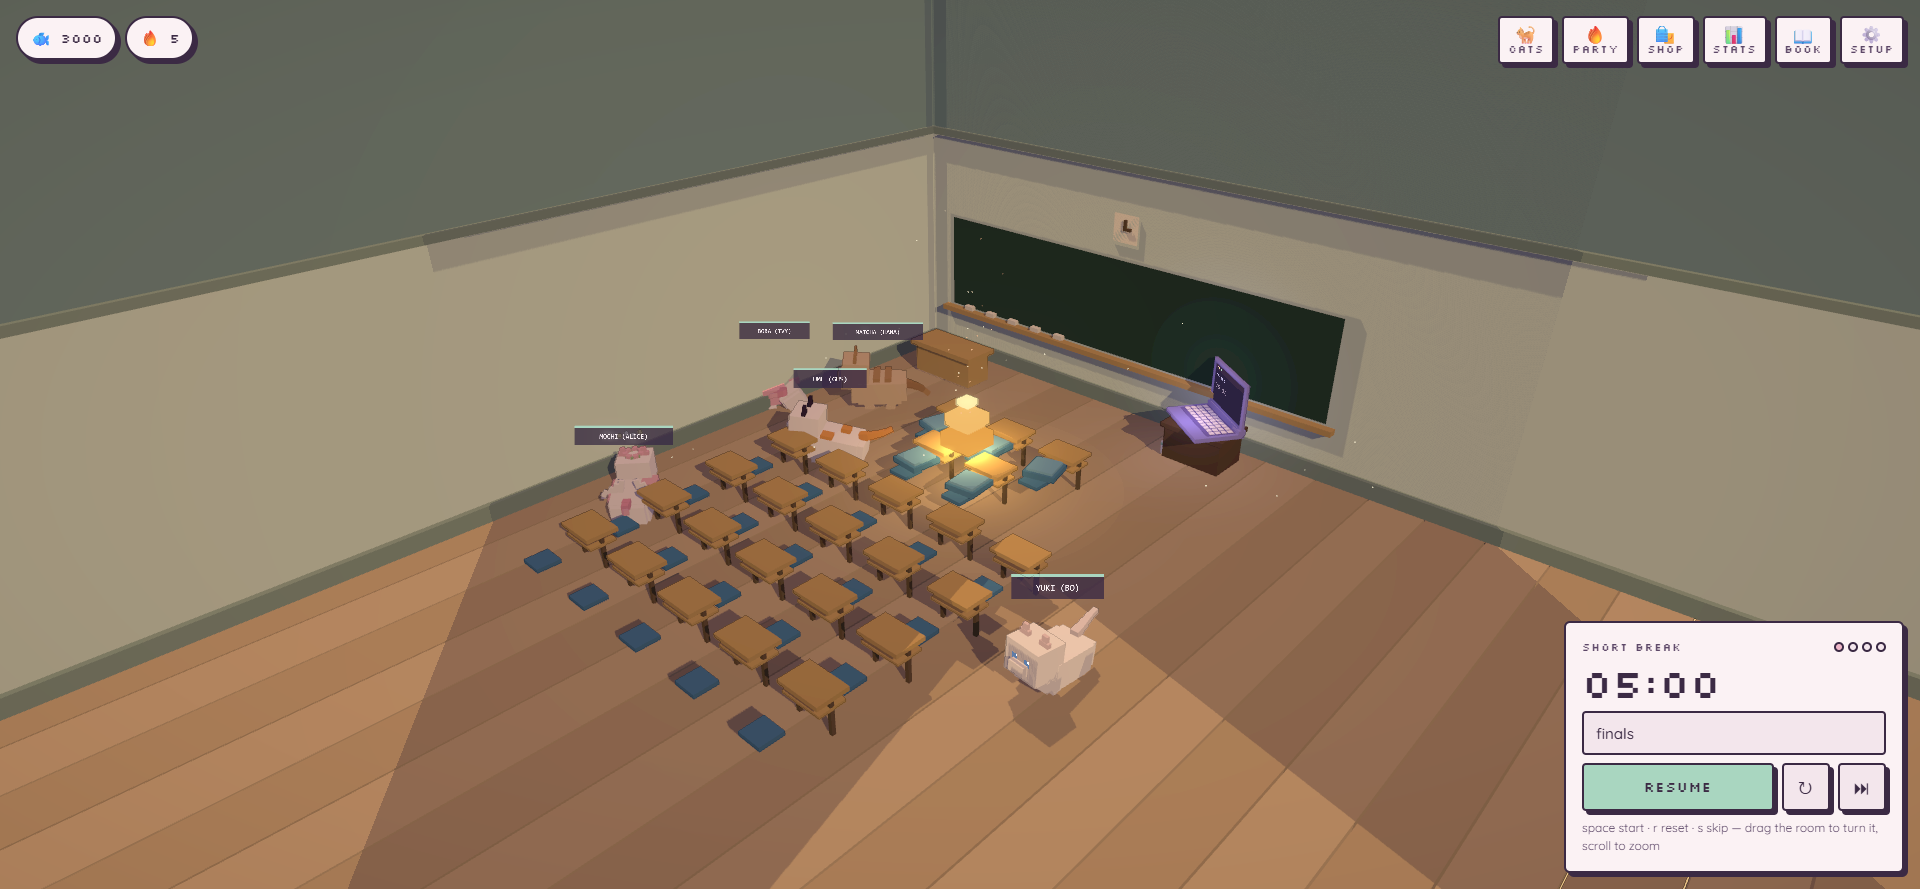
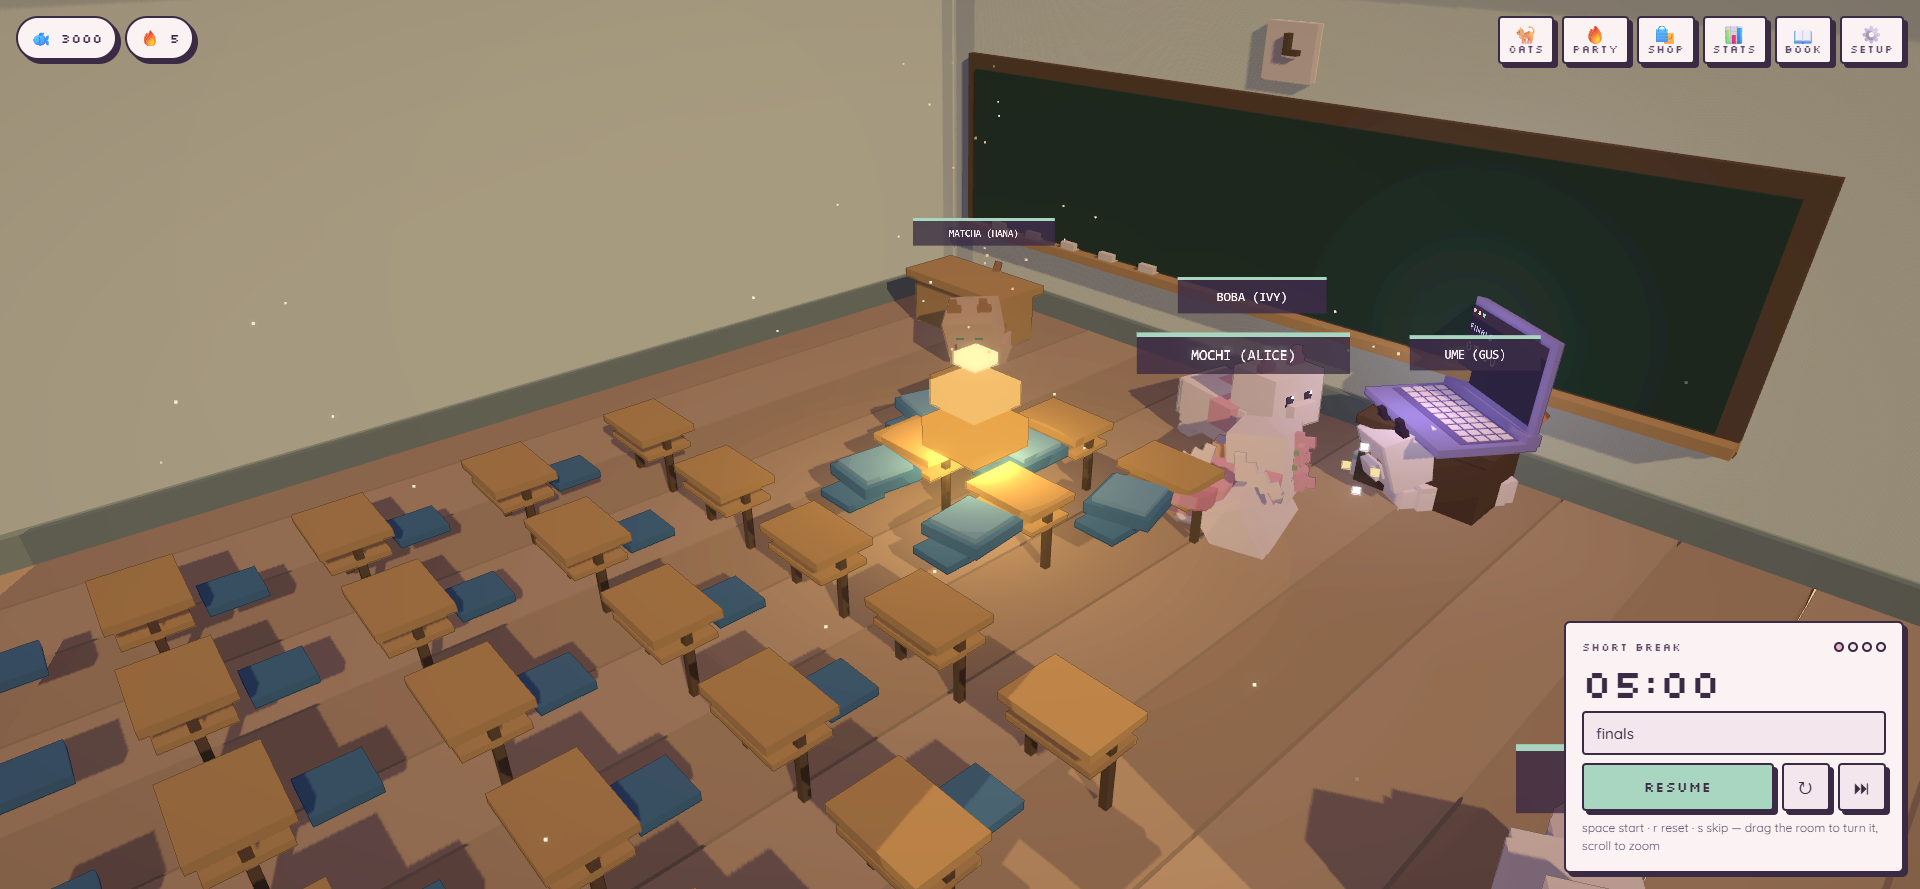
Hang wall furniture on the wall's face, not inside it
Both reported bugs were the same mistake. A wall at `wallZ` is a 0.3-thick slab
spanning wallZ..wallZ+0.3, so its visible face is at wallZ + 0.3 — but every
board, screen, picture and clock was positioned relative to `wallZ` itself.

  chalkboard frame  wallZ+0.14..+0.26   buried inside the plaster
  chalkboard face   wallZ+0.24..+0.30   front exactly coplanar with the wall
  museum frames     wallZ+0.18..+0.30   same
  projector screen  wallZ+0.25..+0.31   straddling the wall

A surface coplanar with another does not look subtly wrong; the depth test
cannot separate them and it renders as a stippled dither crawling over the whole
face, which is exactly what the screenshots show.

WALL_THICK is now a named constant used both to build the walls and to derive
their faces, and mount(face, depth, out) is the only way anything gets hung.
Every layer of a board — backing, surface, tray, chalk — is explicitly in front
of the one behind it.

Also found while fixing it: the conference whiteboard hangs on the -x wall but
was authored 3.2 units wide in x rather than in z, so it rendered as a sliver
seen edge-on.

The library was unaffected, which is why it looked right: its shelves are 0.5
deep and protrude well past the face by accident rather than by design.

154 tests, probe clean, 188-215 draw calls.

diff --git a/src/scene/environments/room.ts b/src/scene/environments/room.ts
@@ -55,6 +55,22 @@ export interface BuiltRoom {
 /** How far past the eye's limit the far walls stand, so the room has floor beyond the furniture. */
 const WALL_MARGIN = 2.0;
 
+/**
+ * Wall slabs are this thick, and a wall at `wallZ` therefore has its INNER, VISIBLE face at
+ * `wallZ + WALL_THICK`.
+ *
+ * Everything hung on a wall must be placed against that face, not against `wallZ`. Getting this
+ * wrong is not subtle-looking: a board placed at `wallZ + 0.2` is buried *inside* the plaster,
+ * and one whose front lands exactly on `wallZ + 0.3` is coplanar with the wall and z-fights,
+ * which renders as a stippled dither crawling over the whole surface. Both shipped once.
+ */
+const WALL_THICK = 0.3;
+
+/** Mount a slab of thickness `d` on a wall face, standing `out` proud of it. */
+function mount(face: number, d: number, out = 0.02): number {
+  return face + out + d / 2;
+}
+
 /** The five tiers of the shared hearth: box size and height. */
 const TIERS: Array<{ s: number; y: number; flat?: number }> = [
   { s: 0.74, y: 1.02, flat: 0.42 },
@@ -90,15 +106,32 @@ function spines(
   }
 }
 
-/** A framed picture hung flat against a wall. */
-function picture(batch: BoxBatch, x: number, y: number, z: number, w: number, h: number, frame: string, art: string, facing: 'x' | 'z'): void {
+/**
+ * A framed picture hung on a wall face.
+ *
+ * `face` is the wall's inner plane; the frame sits against it and the canvas stands proud of the
+ * frame, so no two surfaces are ever coplanar.
+ */
+function picture(
+  batch: BoxBatch,
+  along: number,
+  y: number,
+  face: number,
+  w: number,
+  h: number,
+  frame: string,
+  art: string,
+  facing: 'x' | 'z',
+): void {
   const t = 0.12;
+  const frameAt = mount(face, t);
+  const artAt = mount(face, t * 0.6, t + 0.02);
   if (facing === 'z') {
-    batch.add({ w, h, d: t, x, y, z }, hex(frame));
-    batch.add({ w: w - 0.26, h: h - 0.26, d: t * 0.6, x, y, z: z + t * 0.5 }, hex(art));
+    batch.add({ w, h, d: t, x: along, y, z: frameAt }, hex(frame));
+    batch.add({ w: w - 0.26, h: h - 0.26, d: t * 0.6, x: along, y, z: artAt }, hex(art));
   } else {
-    batch.add({ w: t, h, d: w, x, y, z }, hex(frame));
-    batch.add({ w: t * 0.6, h: h - 0.26, d: w - 0.26, x: x + t * 0.5, y, z }, hex(art));
+    batch.add({ w: t, h, d: w, x: frameAt, y, z: along }, hex(frame));
+    batch.add({ w: t * 0.6, h: h - 0.26, d: w - 0.26, x: artAt, y, z: along }, hex(art));
   }
 }
 
@@ -112,6 +145,9 @@ interface FurnishContext {
   /** Far wall planes — the ones in shot. */
   wallX: number;
   wallZ: number;
+  /** The visible INNER faces of those walls. Hang things on these, never on wallX/wallZ. */
+  faceX: number;
+  faceZ: number;
   halfX: number;
   halfZ: number;
   obstacles: Obstacle[];
@@ -222,11 +258,11 @@ function furnishClassroom(c: FurnishContext): void {
 
   // The chalkboard fills the wall everyone is facing, with a tray and a ledge of erasers.
   const boardW = Math.min(10, Math.abs(c.wallX) * 2 + 4);
-  batch.add({ w: boardW + 0.4, h: 2.6, d: 0.12, x: 0, y: 2.3, z: c.wallZ + 0.2 }, hex(theme.woodDark));
-  batch.add({ w: boardW, h: 2.2, d: 0.06, x: 0, y: 2.3, z: c.wallZ + 0.27 }, hex('#2E4A3E'));
-  batch.add({ w: boardW + 0.4, h: 0.12, d: 0.3, x: 0, y: 1.1, z: c.wallZ + 0.34 }, hex(theme.wood));
+  batch.add({ w: boardW + 0.4, h: 2.6, d: 0.12, x: 0, y: 2.3, z: mount(c.faceZ, 0.12) }, hex(theme.woodDark));
+  batch.add({ w: boardW, h: 2.2, d: 0.06, x: 0, y: 2.3, z: mount(c.faceZ, 0.06, 0.14) }, hex('#2E4A3E'));
+  batch.add({ w: boardW + 0.4, h: 0.12, d: 0.3, x: 0, y: 1.1, z: mount(c.faceZ, 0.3, 0.02) }, hex(theme.wood));
   for (let i = 0; i < 5; i++) {
-    batch.add({ w: 0.24, h: 0.1, d: 0.16, x: -boardW / 2 + 0.6 + i * 0.7, y: 1.22, z: c.wallZ + 0.34 }, hex('#F6F1E2'));
+    batch.add({ w: 0.24, h: 0.1, d: 0.16, x: -boardW / 2 + 0.6 + i * 0.7, y: 1.22, z: mount(c.faceZ, 0.16, 0.12) }, hex('#F6F1E2'));
   }
 
   // Rows of EMPTY desks behind the party, toward the viewer.
@@ -268,9 +304,9 @@ function furnishClassroom(c: FurnishContext): void {
   c.obstacles.push({ x: tx, z: c.wallZ + 1.7, r: 1.1 });
 
   // A clock above the board — the detail that makes a room a classroom.
-  batch.add({ w: 0.62, h: 0.62, d: 0.12, x: 0, y: 4.1, z: c.wallZ + 0.24 }, hex('#F6F1E2'));
-  batch.add({ w: 0.06, h: 0.22, d: 0.14, x: 0, y: 4.19, z: c.wallZ + 0.3 }, hex(theme.woodDark));
-  batch.add({ w: 0.18, h: 0.06, d: 0.14, x: 0.06, y: 4.1, z: c.wallZ + 0.3 }, hex(theme.woodDark));
+  batch.add({ w: 0.62, h: 0.62, d: 0.12, x: 0, y: 4.1, z: mount(c.faceZ, 0.12) }, hex('#F6F1E2'));
+  batch.add({ w: 0.06, h: 0.22, d: 0.1, x: 0, y: 4.19, z: mount(c.faceZ, 0.1, 0.14) }, hex(theme.woodDark));
+  batch.add({ w: 0.18, h: 0.06, d: 0.1, x: 0.06, y: 4.1, z: mount(c.faceZ, 0.1, 0.14) }, hex(theme.woodDark));
 }
 
 function furnishConference(c: FurnishContext): void {
@@ -304,9 +340,11 @@ function furnishConference(c: FurnishContext): void {
 
   // The screen everyone pretends to read, and a whiteboard beside it.
   const screenW = Math.min(7.5, Math.abs(c.wallX) * 2 + 3);
-  batch.add({ w: screenW + 0.3, h: 3.0, d: 0.14, x: 0, y: 2.6, z: c.wallZ + 0.2 }, hex('#1A1E2E'));
-  batch.add({ w: screenW, h: 2.7, d: 0.06, x: 0, y: 2.6, z: c.wallZ + 0.28 }, hex('#2E4A7A'));
-  batch.add({ w: 3.2, h: 2.0, d: 0.1, x: c.wallX + 0.2, y: 2.3, z: -1.4 }, hex('#F6F6F2'));
+  batch.add({ w: screenW + 0.3, h: 3.0, d: 0.14, x: 0, y: 2.6, z: mount(c.faceZ, 0.14) }, hex('#1A1E2E'));
+  batch.add({ w: screenW, h: 2.7, d: 0.06, x: 0, y: 2.6, z: mount(c.faceZ, 0.06, 0.16) }, hex('#2E4A7A'));
+  // The whiteboard hangs on the -x wall, so it must be thin in X and wide in Z. It was authored
+  // the other way round and rendered as a sliver seen edge-on.
+  batch.add({ w: 0.1, h: 2.0, d: 3.2, x: mount(c.faceX, 0.1), y: 2.3, z: -1.4 }, hex('#F6F6F2'));
 
   // Spare chairs pushed back from the table and a plant in the corner. A meeting room with
   // exactly as many chairs as people reads as a diorama; a real one has extras.
@@ -371,7 +409,7 @@ function furnishMuseum(c: FurnishContext): void {
   const art = ['#7A4E52', '#4E6E7A', '#6E7A4E', '#7A6A4E'];
   for (let i = 0; i < 4; i++) {
     const x = -3.6 + i * 2.4;
-    picture(batch, x, 3.0, c.wallZ + 0.24, 1.7, 2.1, theme.woodDark, art[i % art.length], 'z');
+    picture(batch, x, 3.0, c.faceZ, 1.7, 2.1, theme.woodDark, art[i % art.length], 'z');
   }
 
   // More of the gallery: small plinths with their own pieces, receding toward the viewer. A
@@ -462,10 +500,10 @@ export function buildRoom(roomId: RoomId | string, memberCount: number): BuiltRo
     const y = yFrom + h / 2;
     batch.addMany(
       [
-        { w: width, h, d: 0.3, x: cx, y, z: wallZ + 0.15 },
-        { w: 0.3, h, d: depth, x: wallX + 0.15, y, z: cz },
-        { w: width, h, d: 0.3, x: cx, y, z: nearZ - 0.15 },
-        { w: 0.3, h, d: depth, x: nearX - 0.15, y, z: cz },
+        { w: width, h, d: WALL_THICK, x: cx, y, z: wallZ + WALL_THICK / 2 },
+        { w: WALL_THICK, h, d: depth, x: wallX + WALL_THICK / 2, y, z: cz },
+        { w: width, h, d: WALL_THICK, x: cx, y, z: nearZ - WALL_THICK / 2 },
+        { w: WALL_THICK, h, d: depth, x: nearX - WALL_THICK / 2, y, z: cz },
       ],
       hex(colour),
     );
@@ -489,7 +527,19 @@ export function buildRoom(roomId: RoomId | string, memberCount: number): BuiltRo
   /* ------------------------------------------------------------- furniture */
 
   const obstacles: Obstacle[] = [];
-  FURNISH[def.id]({ batch, group, theme, seats, wallX, wallZ, halfX: seats.halfX, halfZ: seats.halfZ, obstacles });
+  FURNISH[def.id]({
+    batch,
+    group,
+    theme,
+    seats,
+    wallX,
+    wallZ,
+    faceX: wallX + WALL_THICK,
+    faceZ: wallZ + WALL_THICK,
+    halfX: seats.halfX,
+    halfZ: seats.halfZ,
+    obstacles,
+  });
 
   // Cushions last, so they sit on top of whatever seating the room built.
   for (const seat of seats.seats) {

diff --git a/.claude/TASK_BRIEF.md b/.claude/TASK_BRIEF.md
@@ -1,27 +1,25 @@
 # Task Brief
 
-Generated: 2026-08-30T08:09:27.119Z · Tier T2 · Model sonnet · Confidence 0.8 (heuristic) · Advisory
+Generated: 2026-08-30T11:52:35.873Z · Tier T1 · Model sonnet · Confidence 0.9 (heuristic) · Advisory
 
 ## Original request (redacted)
 
-<task-notification> <task-id>wjlplif4r</task-id> <tool-use-id>toolu_01B2Tu2u7bGXWsNKhGjwFBU7</tool-use-id> <output-file>C:\Users\USER\AppData\Local\Temp\claude\c--Users-USER-Desktop-StudyCats-studycats\3c7758a9-03cb-410d-804e-e89e13ae1616\tasks\wjlplif4r.output</output-file> <status>completed</status> <summary>Dynamic workflow "Design the room system that replaces the arena disc with actual interiors (library, classroom, gallery, conference room)" completed</summary> <result>{"spec":null,"proposalCount":4}</result> <diagnostics>Per-agent results: C:\Users\USER\.claude\projects\c--Users-USER-Desktop-StudyCats-studycats\3c7758a9-03cb-410d-804e-e89e13ae1616\subagents\workflows\wf_bd1babfa-d96/journal.jsonl — one {"type":"result",...} line per completed agent with its full return value. If the result above is empty or unexpected, Read this file BEFORE diagnosing — do not assume agents returned non-empty results. To re-run with edited post-processing: Workflow({scriptPath: 'C:\Users\USER\.claude\projects\C--Users-USER-Desktop-StudyCats-studycats\3c7758a9-03cb-410d-804e-e89e13ae1616\workflows\scripts\real-rooms-design-wf_bd1babfa-d96.js', resumeFromRunId: 'wf_bd1babfa-d96'}) — agents whose (prompt, opts) are unchanged replay from cache.</diagnostics> <failures>[harden:camera] failed: You've hit your monthly spend limit · raise it at claude.ai/settings/usage?from=cc_cli_limit_message · your session limit resets 6:50pm (Asia/Manila) [judge:2] failed: You've hit your monthly spend limit · raise it at claude.ai/settings/usage?from=cc_cli_limit_message · your session limit resets 6:50pm (Asia/Manila) [judge:3] failed: You've hit your monthly spend limit · raise it at claude.ai/settings/usage?from=cc_cli_limit_message · your session limit resets 6:50pm (Asia/Manila) [judge:1] failed: You've hit your monthly spend limit · raise it at claude.ai/settings/usage?from=cc_cli_limit_message · your session limit resets 6:50pm (Asia/Manila) [final-spec] failed: You've hit your monthly spend limit · raise it at claude.ai/settings/usage?from=cc_cli_limit_message · your session limit resets 6:50pm (Asia/Manila)</failures> <usage><agent_count>18</agent_count><agents_done>13</agents_done><agents_error>5</agents_error><agents_skipped>0</agents_skipped><agents_empty_result>0</agents_empty_result><subagent_tokens>2287682</subagent_tokens><tool_uses>299</tool_uses><duration_ms>3176775</duration_ms></usage> </task-notification>
+these doesn't render properly. after school and quiet museum wall or tv
 
 ## Routing (advisory — the orchestrator decides)
 
-- Risk: flagged (auth) → floor T2
-- Security review required: yes
+- Risk: none
+- Security review required: no
 - Enhanced by model: no (backend: deterministic)
 
 ### Recommended agents
-- **qa-engineer** (owns test/**, tests/**) — matched spec
-- **code-reviewer** — independent review at T2+
-- **security-reviewer** — risk-flagged — mandatory security review (veto on risk≥medium)
+- **frontend-engineer** (owns ui/**, client/**) — matched ui
 
 ### Quality gates
-- fmt → lint → typecheck → unit → integration → e2e → build → smoke → review → security-review
+- fmt → lint → typecheck → unit → integration → e2e → build → smoke → review
 
 ## Notes
 
-risk domain present; RISK floor → T2+; risk → Sonnet + security-reviewer (not Opus)
+substantive build → Sonnet
 
-_Classifier: risk domain present; RISK floor → T2+; risk → Sonnet + security-reviewer (not Opus)_
+_Classifier: substantive build → Sonnet_

diff --git a/.claude/NEXT_PROMPT.md b/.claude/NEXT_PROMPT.md
@@ -5,11 +5,11 @@
 
 ## Suggested prompt
 
-Goal: <task-notification> <task-id>wjlplif4r</task-id> <tool-use-id>toolu_01B2Tu2u7bGXWsNKhGjwFBU7</tool-use-id> <output-file>C:\Users\USER\AppData\Local\Temp\claude\c--Users-USER-Desktop-StudyCats-studycats\3c7758a9-03cb-410d-804e-e89e13ae1616\tasks\wjlplif4r.output</output-file> <status>completed</status> <summary>Dynamic workflow "Design the room system that replaces the arena disc with actual interiors (library, classroom, gallery, conference room)" completed</summary> <result>{"spec":null,"proposalCount":4}</result> <diagnostics>Per-agent results: C:\Users\USER\.claude\projects\c--Users-USER-Desktop-StudyCats-studycats\3c7758a9-03cb-410d-804e-e89e13ae1616\subagents\workflows\wf_bd1babfa-d96/journal.jsonl — one {"type":"result",...} line per completed agent with its full return value. If the result above is empty or unexpected, Read this file BEFORE diagnosing — do not assume agents returned non-empty results. To re-run with edited post-processing: Workflow({scriptPath: 'C:\Users\USER\.claude\projects\C--Users-USER-Desktop-StudyCats-studycats\3c7758a9-03cb-410d-804e-e89e13ae1616\workflows\scripts\real-rooms-design-wf_bd1babfa-d96.js', resumeFromRunId: 'wf_bd1babfa-d96'}) — agents whose (prompt, opts) are unchanged replay from cache.</diagnostics> <failures>[harden:camera] failed: You've hit your monthly spend limit · raise it at claude.ai/settings/usage?from=cc_cli_limit_message · your session limit resets 6:50pm (Asia/Manila) [judge:2] failed: You've hit your monthly spend limit · raise it at claude.ai/settings/usage?from=cc_cli_limit_message · your session limit resets 6:50pm (Asia/Manila) [judge:3] failed: You've hit your monthly spend limit · raise it at claude.ai/settings/usage?from=cc_cli_limit_message · your session limit resets 6:50pm (Asia/Manila) [judge:1] failed: You've hit your monthly spend limit · raise it at claude.ai/settings/usage?from=cc_cli_limit_message · your session limit resets 6:50pm (Asia/Manila) [final-spec] failed: You've hit your monthly spend limit · raise it at claude.ai/settings/usage?from=cc_cli_limit_message · your session limit resets 6:50pm (Asia/Manila)</failures> <usage><agent_count>18</agent_count><agents_done>13</agents_done><agents_error>5</agents_error><agents_skipped>0</agents_skipped><agents_empty_result>0</agents_empty_result><subagent_tokens>2287682</subagent_tokens><tool_uses>299</tool_uses><duration_ms>3176775</duration_ms></usage> </task-notification>
+Goal: these doesn't render properly. after school and quiet museum wall or tv
 
 Deterministic framing (no external model was used):
-- Suggested tier T2, model sonnet + security-reviewer (advisory).
-- Risk domains: auth. Treat as T2+; no destructive/production actions without explicit approval.
+- Suggested tier T1, model sonnet (advisory).
+- No risk domains detected by the deterministic scan.
 - Confirm acceptance criteria and scope before implementing.
 - Prefer existing repo automation and approved MCP sources over guessing.
 

diff --git a/DESIGN.md b/DESIGN.md
@@ -268,6 +268,13 @@ production constants rather than restating them. Findings worth keeping:
   three desks in an empty hall reads as a mistake; one with twenty reads as a classroom.
 - **People sit across a table, not zig-zagged down it.** Alternating sides at half-pitch cuts an
   eight-seat run from 8.05 to 5.60, which is what makes the whole thing framable.
+- **Wall furniture mounts on the wall's FACE, never on the wall's plane.** A wall at `wallZ` is a
+  0.3-thick slab, so its visible face is at `wallZ + WALL_THICK`. A chalkboard placed at
+  `wallZ + 0.2` is buried inside the plaster; one whose front lands exactly on `wallZ + 0.3` is
+  coplanar with the wall and z-fights, which renders as a stippled dither crawling over the whole
+  surface. Both shipped. `mount(face, depth, out)` is the only correct way to hang something.
+- **Check the axis of anything flat.** The conference whiteboard hangs on the -x wall and was
+  authored 3.2 wide in *x*, so it rendered as a sliver seen edge-on.
 - `shell.ceiling` is the eye's limit and `ROOM_LID` is where the slab is drawn. When a venue drew
   its lid at the eye's own height, the rig climbed above it during break framing and rendered the
   room from the roof — a black screen. A test now pins the gap.
